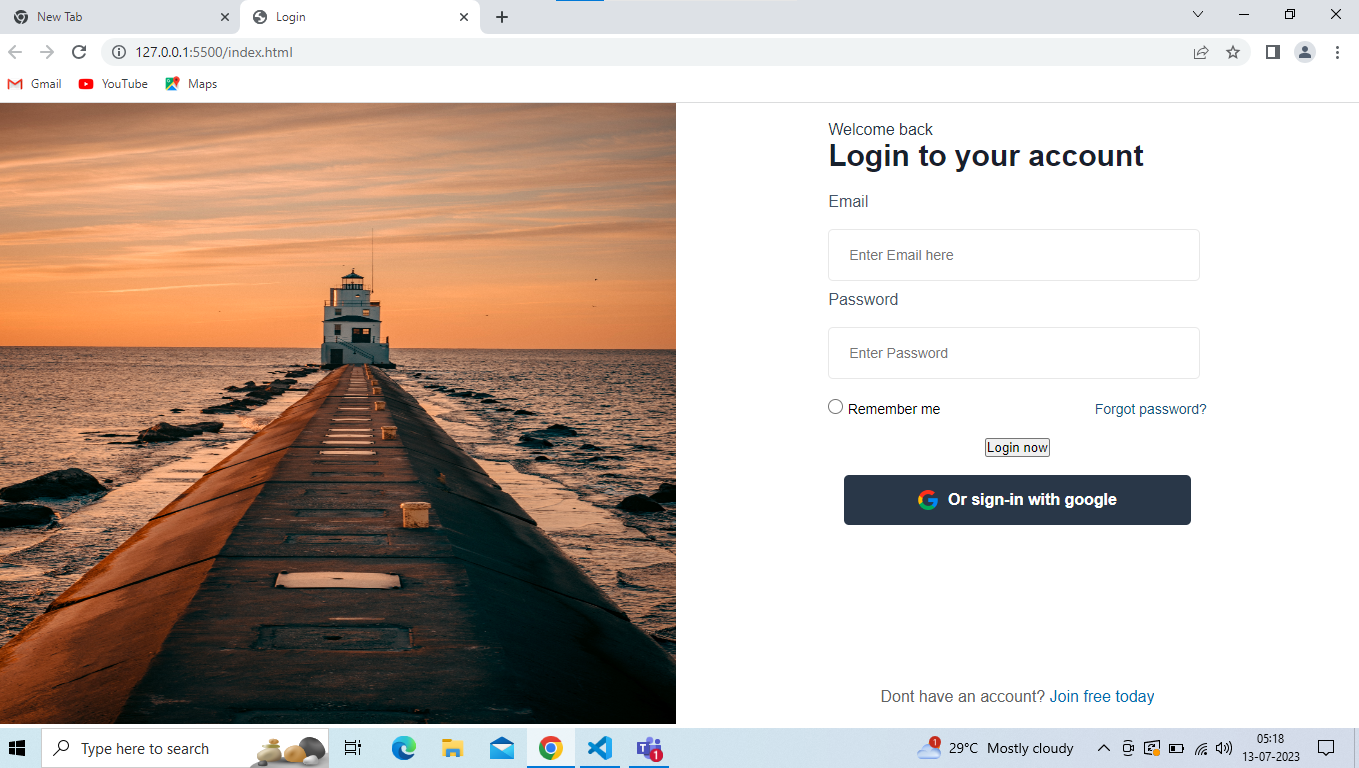
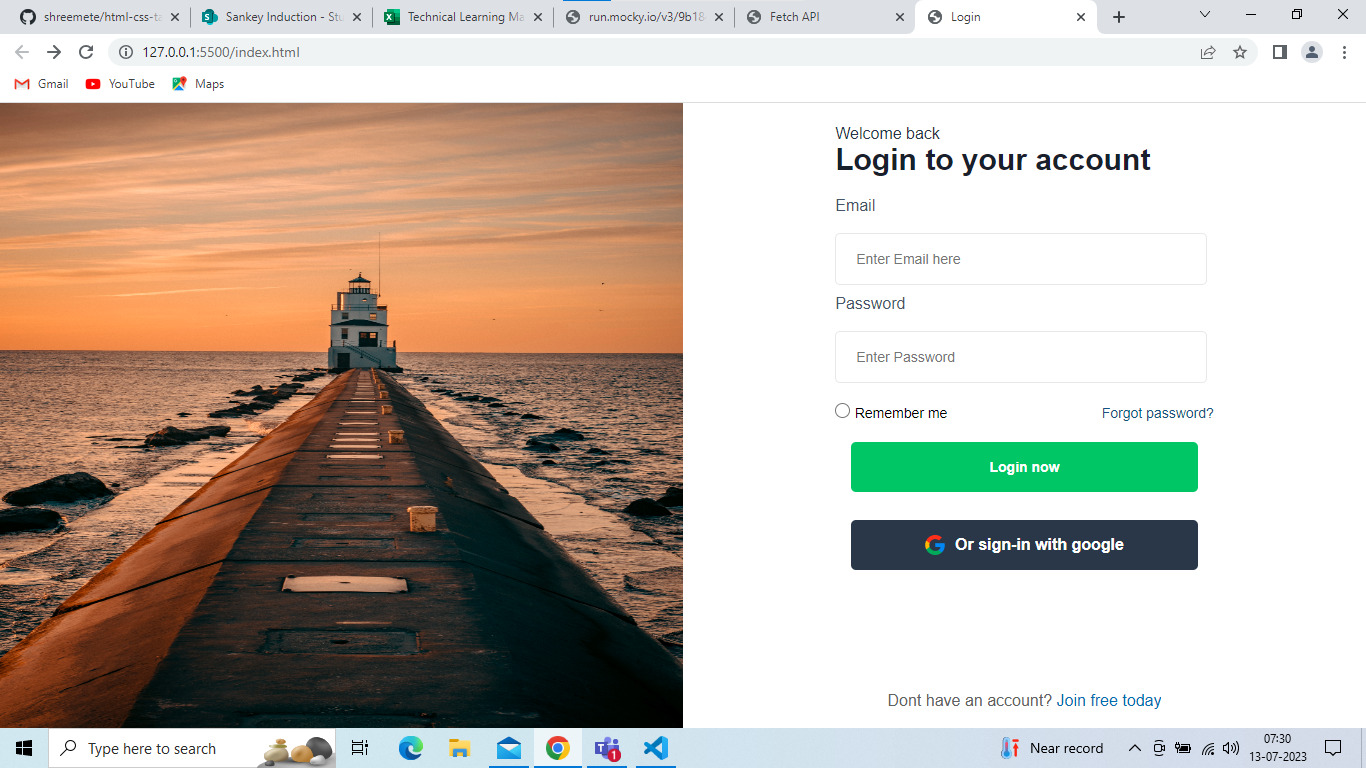
js updated

diff --git a/index.html b/index.html
@@ -4,7 +4,7 @@
 <head>
     <meta charset="UTF-8">
     <meta name="viewport" content="width=device-width, initial-scale=1.0">
-    <link rel="stylesheet" href="style.css">
+    <link rel="stylesheet" href="css/style.css">
     <title>Login</title>
 
 </head>
@@ -20,12 +20,12 @@
                 <p>Welcome back</p>
                 <h1>Login to your account</h1>
 
-                <form action="#">
+                <form action="welcome.html">
 
                     <label>Email</label><br><br>
-                    <input type="email" placeholder="Enter Email here" name="" id=""><br>
+                    <input type="email" placeholder="Enter Email here" name="" id="email"><br>
                     <label>Password</label><br><br>
-                    <input type="password" placeholder="Enter Password"><br>
+                    <input type="password" placeholder="Enter Password" id="pass"><br>
                     <div class="radio-btn">
                         <input type="radio" value="remember">
                         <label for="remember" class="remember">Remember me</label>
@@ -33,7 +33,7 @@
                     </div>
 
                     <div class="btn">
-                        <input type="submit" value="Login now"><br>
+                        <input type="submit" onclick="valid()" value="Login now"><br>
                         <a href="#" class="google-sign-in">
 
                             <img src="assets/google-icon.png" alt="google icon">
@@ -50,6 +50,7 @@
 
         </div>
     </div>
+    <script src="js/script.js"></script>
 </body>
 
 </html>

diff --git a/js/script.js b/js/script.js
@@ -1,0 +1,5 @@
+function valid() {
+    let mail = document.getElementById("email").value;
+    let pass = document.getElementById("pass").value;
+    console.log(mail, pass);
+}

diff --git a/css/style.css b/css/style.css
@@ -86,7 +86,7 @@ input[type=radio] {
     height: 15px;
 }
 
-input[type=button] {
+input[type=submit] {
     width: 347px;
     height: 50px;
     border-radius: 5px;
